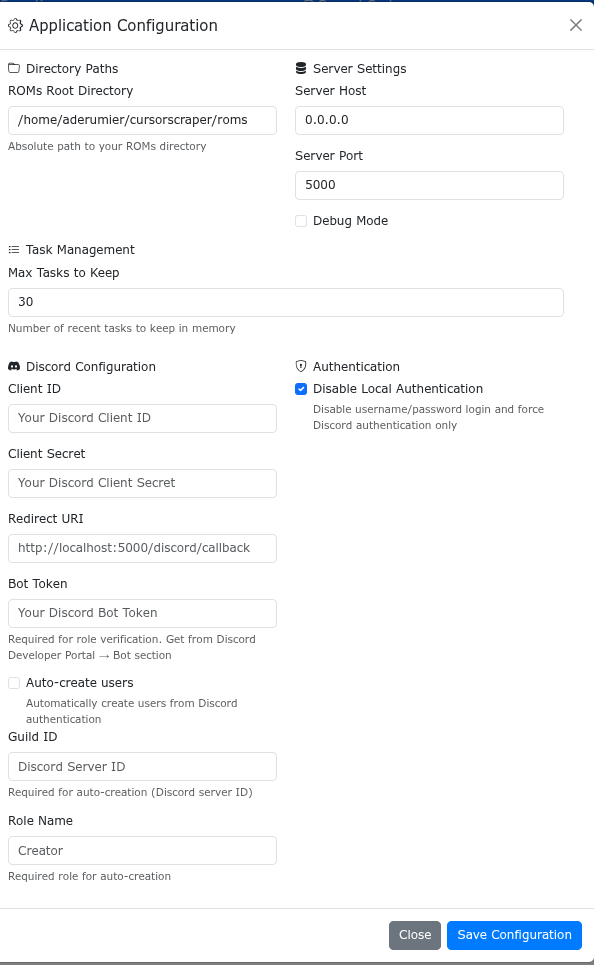
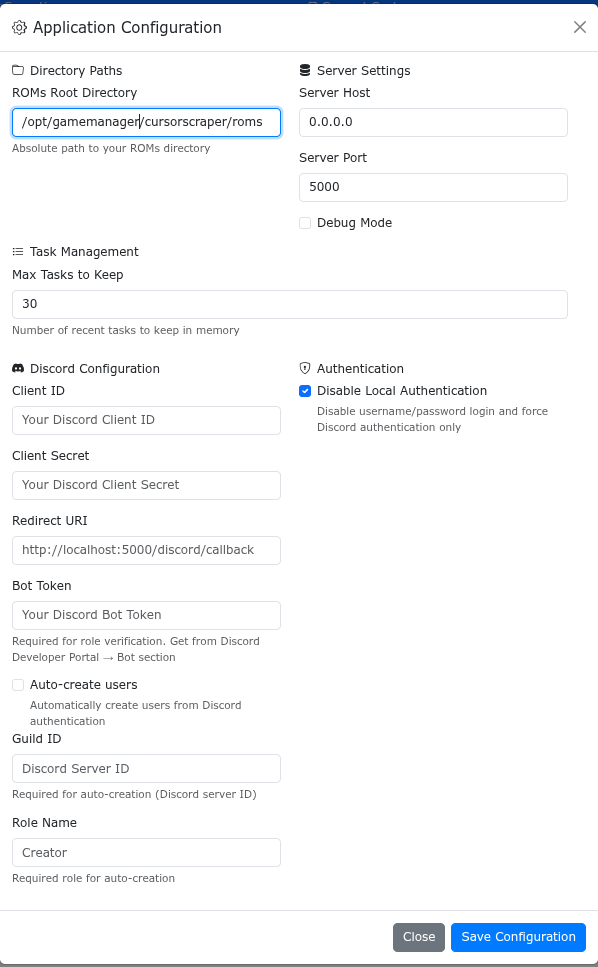
add doc images

diff --git a/DOCUMENTATION.md b/DOCUMENTATION.md
@@ -78,7 +78,6 @@
   - Discord OAuth2 authentication
   - User registration and validation
 
-![Feature Overview](docs/images/features-overview.png)
 
 ---
 
@@ -152,6 +151,7 @@ For detailed installation instructions, see:
 ![Login Screen](docs/images/login-screen.png)
 
 3. **Download the launchbox database && update the local scrappers databases**
+
 ![Cache Configuration](docs/images/cache-configuration.png)
 
 4. **Configure Your ROM Directory**
@@ -159,7 +159,7 @@ For detailed installation instructions, see:
    - Set the ROMs root directory path
    - Configure other settings as needed
 
-![Configuration](docs/images/configuration.png)
+![Configuration](docs/images/app-configuration.png)
 
 5. **Configure Your systems**
    - Go to **Configuration → System Configuration**
@@ -188,13 +188,13 @@ For detailed installation instructions, see:
 
 ![System Selection](docs/images/system-selection.png)
 
-- **Configuration Menu**: Access all configuration options
+- **Configuration Menu**: Access all Application configuration options
 
 ![Configuration Menu](docs/images/navigation-configuration-menu.png)
 - **Current System Menu**: System-specific operations
 
 ![CurrentSystem Menu](docs/images/navigation-currentsystem-menu.png)
-- **User Menu**: Account settings, Automatic Scrappers preferences and logout
+- **User Menu**: Account settings, User Automatic Scrappers preferences and logout
 
 ![User Menu](docs/images/navigation-user-menu.png)
 
@@ -239,6 +239,9 @@ Bottom panel displaying:
 - Task history
 - Cancel buttons for running tasks
 
+You can double click on a task to see the detailled task log. (Also in Live!)
+![Task Detail](docs/images/task-management-log.png)
+
 ---
 
 ## Core Features
@@ -264,6 +267,8 @@ Bottom panel displaying:
 - **Game Information**: Metadata fields, IDs, descriptions
 - **Media Files**: View and manage all media files
 - **Video Preview**: Preview and manage video files
+
+![Video Preview](docs/images/video-preview.png)
 
 #### Adding Games
 
@@ -444,10 +449,6 @@ Manual video cropping allows you to remove black borders or unwanted areas from 
 - Video downloads
 - Company and genre information
 
-**Setup**:
-- See [IGDB Setup Guide](IGDB_SETUP.md)
-- Requires Twitch Developer account
-- Configure Client ID and Secret
 
 #### 3. ScreenScraper
 
